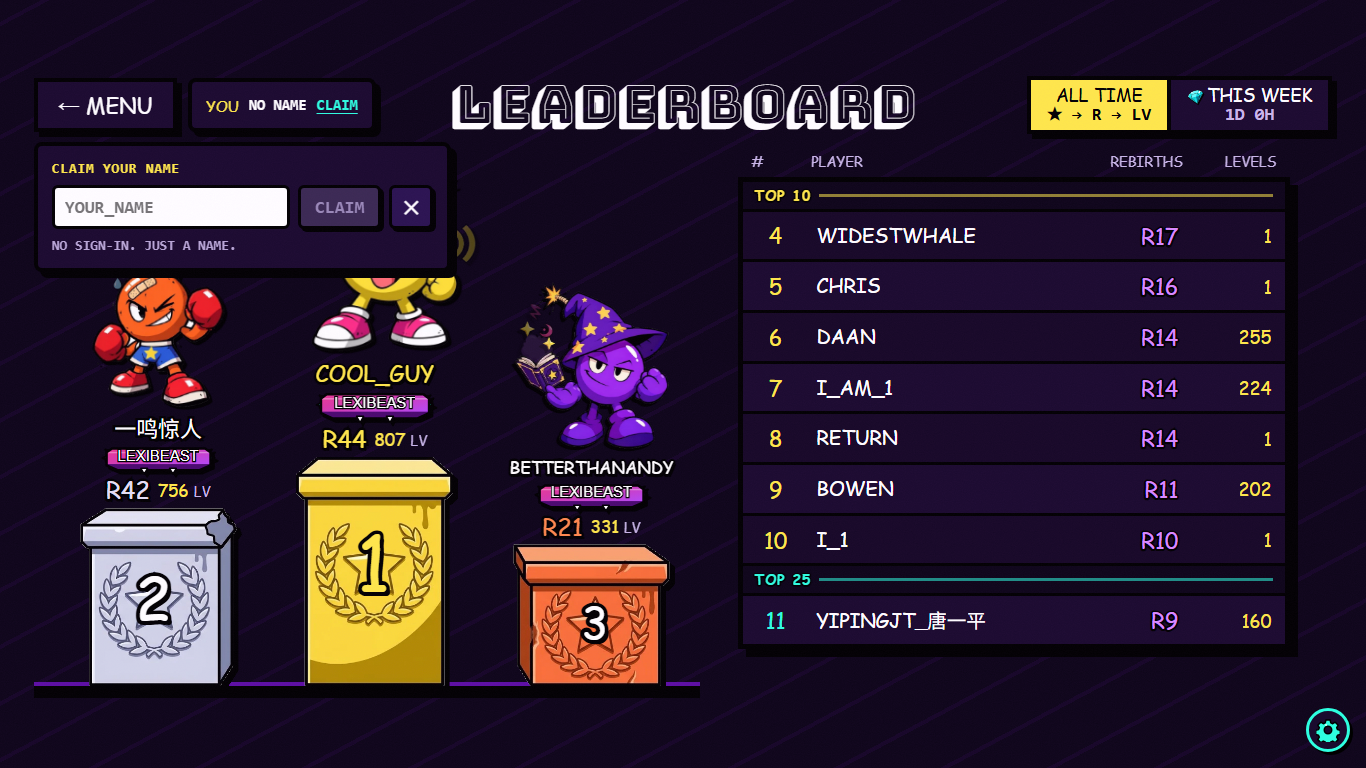
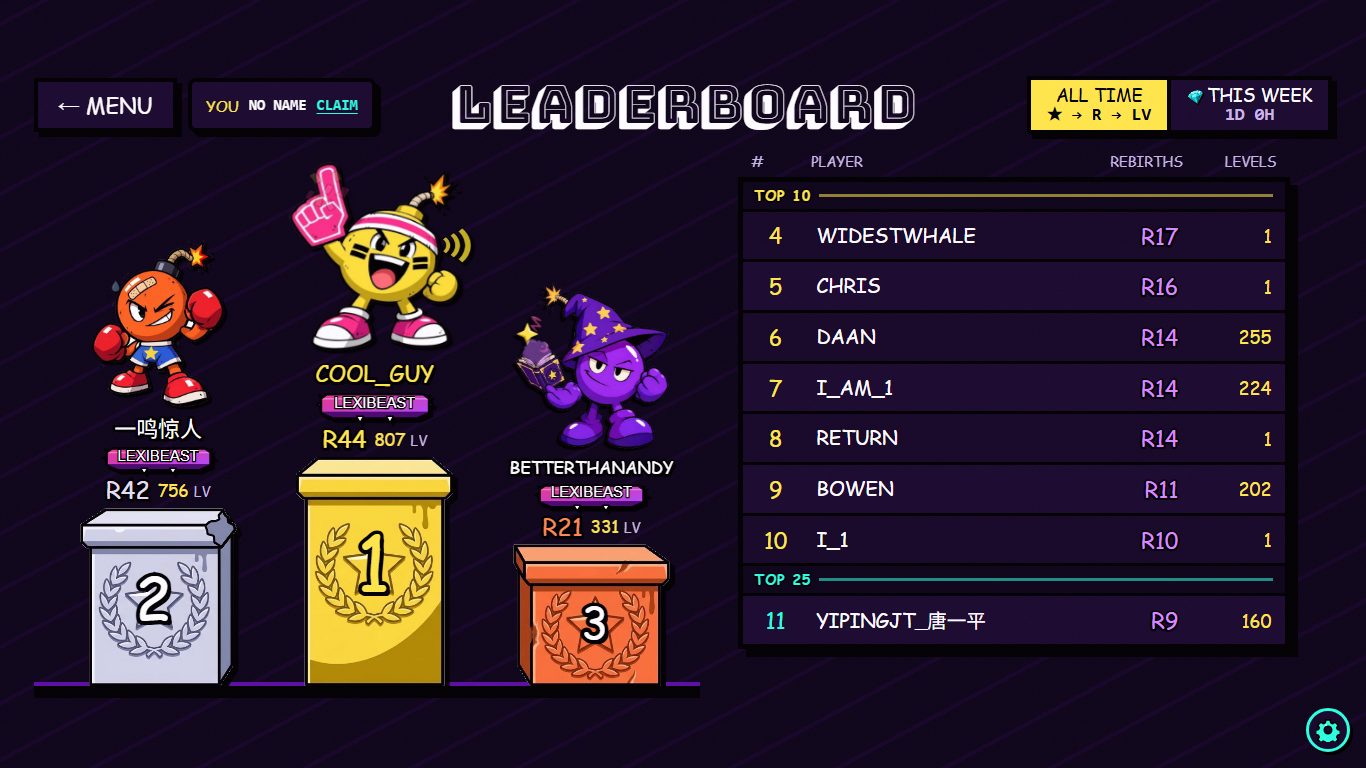
fix: leaderboard CLAIM box opens only on tap, never over the podium on arrival

Changed region(s): [[0.0307, 0.1875, 0.369, 0.4375], [0.369, 0.4062, 0.4305, 0.5], [0.0615, 0.4062, 0.123, 0.4688]]

diff --git a/e2e/v2-leaderboard.spec.js b/e2e/v2-leaderboard.spec.js
@@ -269,7 +269,11 @@ for (const vp of [{ width: 1366, height: 657 }, { width: 390, height: 844 }]) {
     const { lb } = await boot(page, { me: { rebirths: 0, level: 12 }, named: false, vp });
     await expect(page.locator('.lb-overlay')).toHaveCount(0); // the old live screen never opens
     const box = lb.locator('.lb2-rename.is-claim');
-    await expect(box, 'the claim box is open on arrival').toBeVisible();
+    // Andy oct18: the box no longer opens on arrival (it covered the podium) — the YOU · NO NAME · CLAIM chip opens it
+    await expect(lb.locator('.lb2-me-btn.is-claim')).toContainText('CLAIM');
+    await expect(box, 'the claim box stays closed on arrival').toHaveCount(0);
+    await lb.locator('.lb2-me-btn.is-claim').click();
+    await expect(box).toBeVisible();
     await expect(box.locator('.lb2-rename-l')).toHaveText('CLAIM YOUR NAME');
     await expect(box.locator('.lb2-rename-msg')).toHaveText('NO SIGN-IN. JUST A NAME.');
     await expect(lb.locator('.lb2-me-btn.is-claim')).toContainText('CLAIM');

diff --git a/src/components/LeaderboardV2.jsx b/src/components/LeaderboardV2.jsx
@@ -317,8 +317,9 @@ export default function LeaderboardV2({ onBack }) {
   const [profile, setProfile] = useState(() => getMyProfile());
   // CHANGE NAME lives ON this board (Andy oct8: "why does changing name show the old leaderboard? there shouldn't be
   // 2 separate leaderboards") — an inline name box under YOU, not a hop to the season-1 screen.
-  // no name yet → the box is open on arrival, as the claim prompt (Andy oct9: everyone sees this board)
-  const [renaming, setRenaming] = useState(() => !getMyProfile());
+  // no name yet → the YOU · NO NAME · CLAIM chip is the prompt; the box opens only when tapped (Andy oct18: the box
+  // opening on arrival dropped over the podium heroes — "don't auto-open the CLAIM box; the chip is enough")
+  const [renaming, setRenaming] = useState(false);
   const [caps, setCaps] = useState({ weekly: false });
   const [tab, setTab] = useState('all');
   const [peek, setPeek] = useState(null); // the row whose profile card is open
